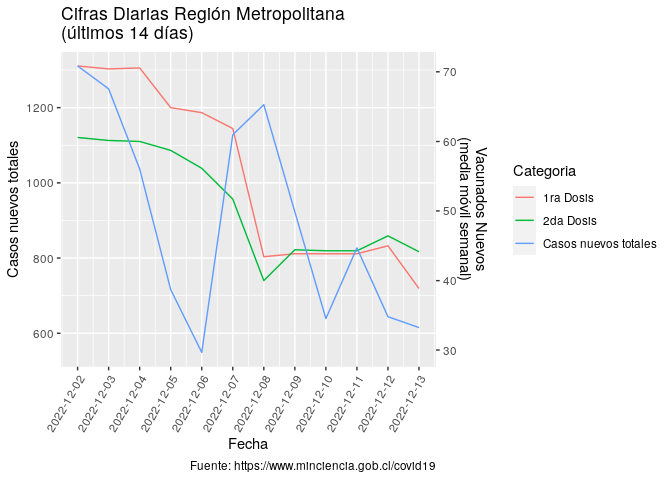
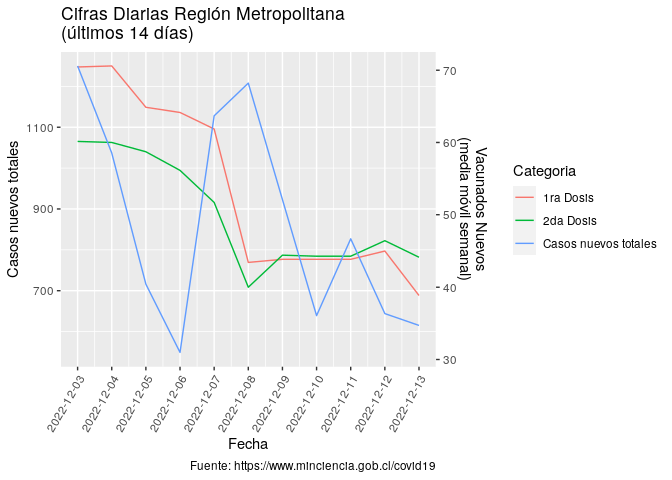
Re-build Rmarkdown files

diff --git a/README.md b/README.md
@@ -3,7 +3,7 @@
 
 Ejemplo de uso de total\_casos de COVID recopilados por el Ministerio de
 Ciencia de Chile <https://www.minciencia.gob.cl/covid19>. Última
-actualización: 2022-12-15
+actualización: 2022-12-16
 
 ## Visualización desde el comienzo de la pandemia
 
